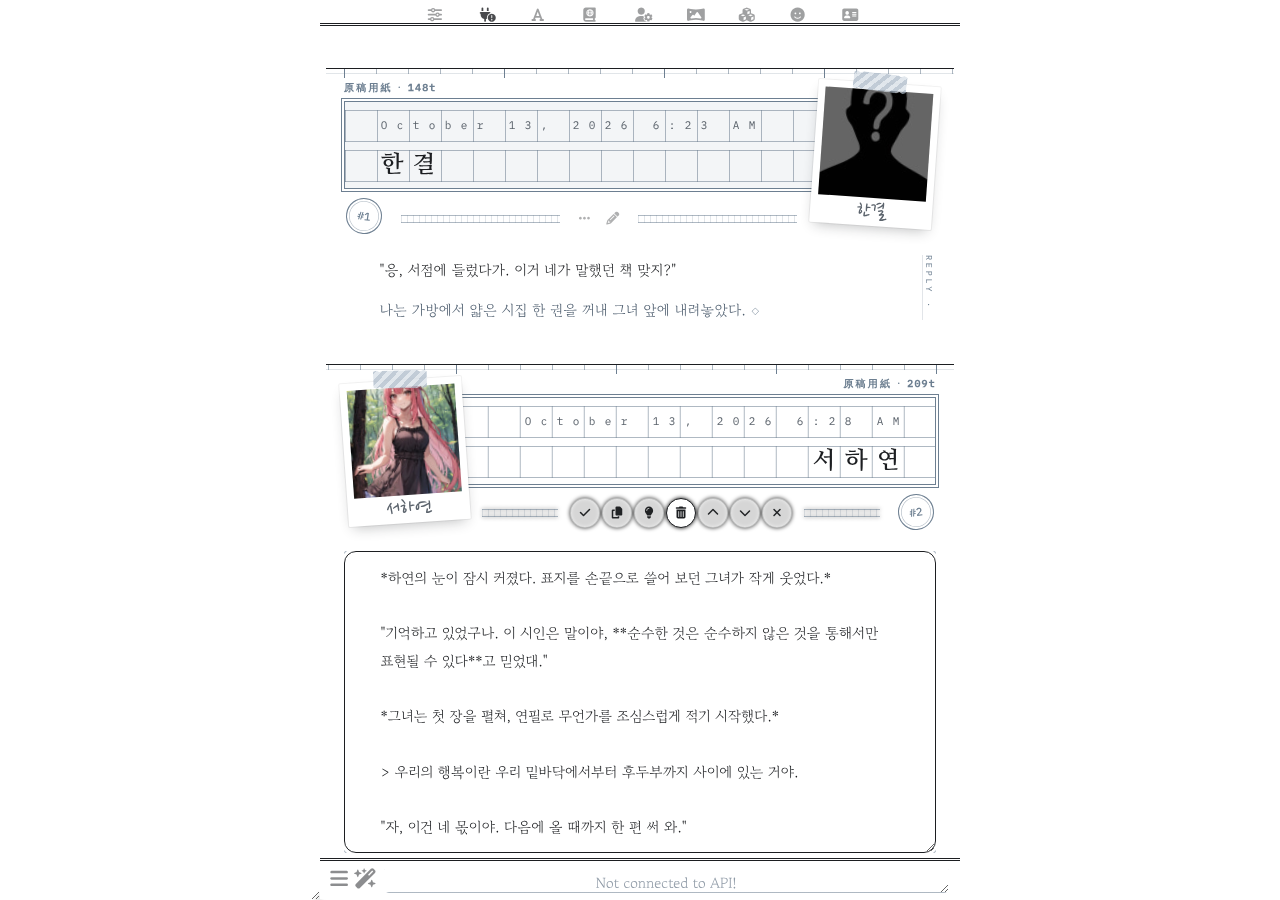
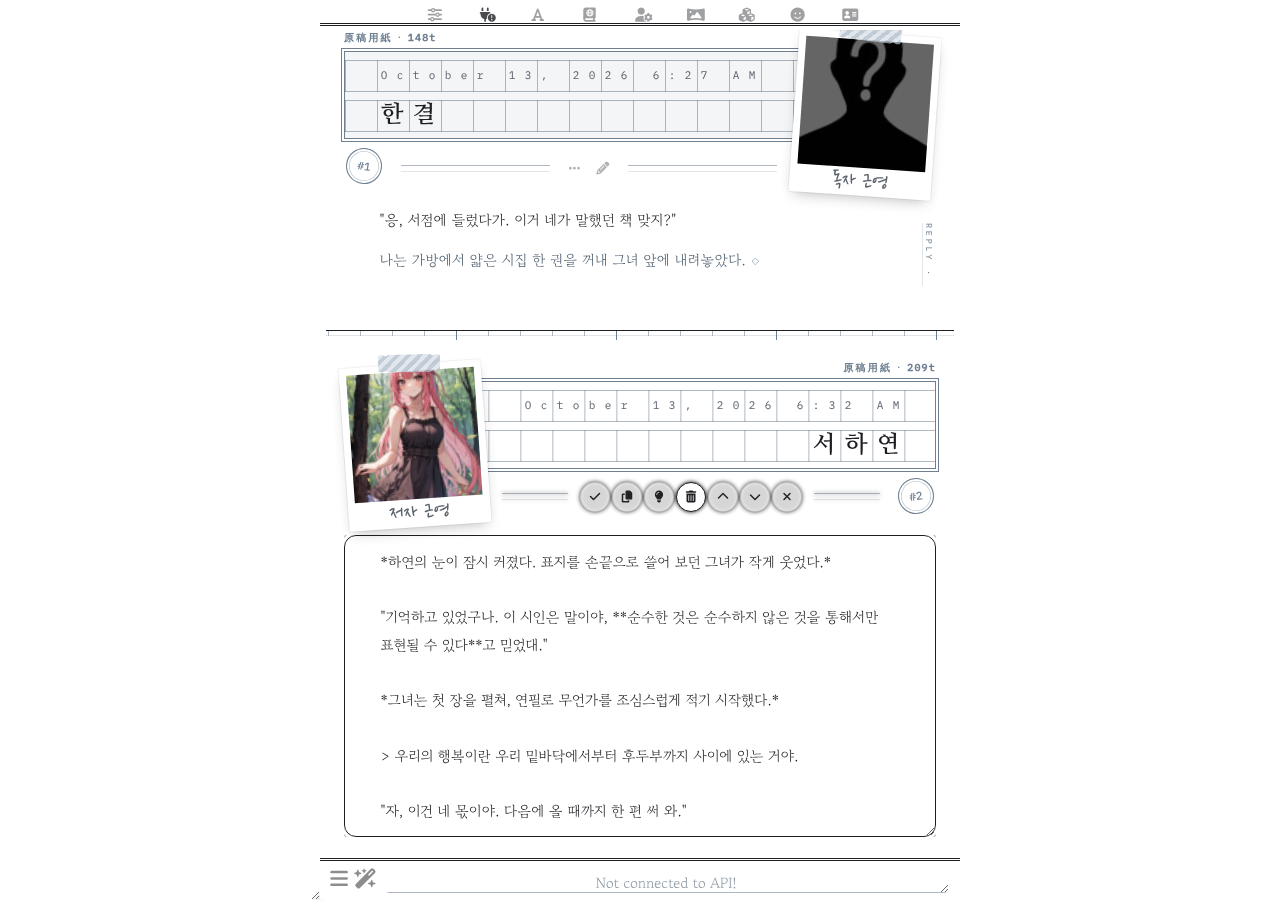
Wongoji: roomier separator, double-rule button row, literary captions
- More space above and below the ruler separator
- Button row lines back to the double hairline
- Polaroid caption reads '저자 근영' / '독자 근영' instead of the name
- Larger polaroid photos

Claude-Session: https://claude.ai/code/session_01VxNZVdN99GR1yFwUVAN4mT

diff --git a/src/wongoji.css b/src/wongoji.css
@@ -30,6 +30,10 @@
     /* 폴라로이드 사진 필터. 흑백으로 보고 싶다면 grayscale(1) */
     --wg-photo-filter: none;
 
+    /* 폴라로이드 아래 손글씨 — 책날개의 '저자 근영(近影)'처럼 */
+    --wg-caption-char: '저자 근영';
+    --wg-caption-user: '독자 근영';
+
     /* 띠 위 여백에 인쇄된 이름 (토큰 수가 뒤에 붙습니다) */
     --wg-paper-label: '原稿用紙';
 
@@ -53,9 +57,9 @@
     --wg-cell: 32px;              /* 칸 */
     --wg-gap: 8px;                /* 줄 사이 틈 */
     --wg-name-size: 24px;         /* 이름 글자 (칸보다 작게) */
-    --wg-pad: 32px;               /* 구분선과 띠 사이 */
+    --wg-pad: 50px;               /* 구분선과 띠 사이 */
     --wg-side: 18px;
-    --wg-photo: 108px;
+    --wg-photo: 128px;
     --wg-stamp-size: 36px;               /* 번호 도장 지름 */
     --wg-frame: 7px;
     --wg-chin: 28px;
@@ -78,9 +82,9 @@
         --wg-ts-per: 3;
         --wg-gap: 6px;
         --wg-name-size: 19px;
-        --wg-pad: 28px;
+        --wg-pad: 42px;
         --wg-side: 10px;
-        --wg-photo: 82px;
+        --wg-photo: 100px;
         --wg-stamp-size: 31px;
         --wg-frame: 5px;
         --wg-chin: 22px;
@@ -187,7 +191,7 @@ body {
 
     display: block;
     position: relative;
-    padding: calc(var(--wg-pad) + var(--wg-band-h) + 12px) var(--wg-side) 40px;
+    padding: calc(var(--wg-pad) + var(--wg-band-h) + 12px) var(--wg-side) 56px;
     margin: 0;
     /* 구분선 — 원고지 낱장의 머리처럼, 칸마다 눈금을 새긴 자 */
     border-top: 1px solid var(--wg-ink);
@@ -242,9 +246,9 @@ body {
     z-index: 0;
 }
 
-/* 폴라로이드 아래 손글씨 이름 — 아바타와 같은 상자를 같은 각도로 */
+/* 폴라로이드 아래 손글씨 — 아바타와 같은 상자를 같은 각도로 */
 #chat .mes::after {
-    content: attr(ch_name);
+    content: var(--wg-caption-char);
     position: absolute;
     top: var(--wg-pol-top);
     left: var(--wg-side);
@@ -519,12 +523,10 @@ body.no-tokenCount #chat .mes .ch_name::after {
     content: '';
     flex: 1 1 0;
     min-width: 12px;
-    height: 6px;
+    height: 5px;
     margin: 0 10px;
-    /* 아주 작은 원고지 한 줄 */
     border-top: 1px solid var(--wg-print-line);
-    border-bottom: 1px solid var(--wg-print-line);
-    background: linear-gradient(to right, var(--wg-print-faint) 1px, transparent 1px) 0 0 / 6px 100%;
+    border-bottom: 1px solid var(--wg-print-faint);
 }
 
 #chat .mes .mes_button,
@@ -837,7 +839,7 @@ body.no-tokenCount #chat .mes .ch_name::after {
 #chat .mes .mes_block::after {
     content: var(--wg-spine-char);
     position: absolute;
-    top: calc(var(--wg-pad) + var(--wg-band-h) + 66px);
+    top: calc(var(--wg-pad) + var(--wg-band-h) + 84px);
     bottom: 44px;
     left: var(--wg-side);
     width: 14px;
@@ -889,6 +891,10 @@ body.no-tokenCount #chat .mes .ch_name::after {
     left: var(--wg-band-far);
     right: var(--wg-band-near);
     background-position: 0 0, 0 0, left 0 top 0;
+}
+
+#chat .mes[is_user="true"]::after {
+    content: var(--wg-caption-user);
 }
 
 #chat .mes[is_user="true"]::after,

diff --git a/README.md b/README.md
@@ -14,8 +14,8 @@ SillyTavern UI 테마입니다. 흰 바탕과 먹, 청회색으로 인쇄된 원
   - 둘째 줄: 이름을 한 칸에 한 글자씩. 모두 끝 한 칸을 비우고 적습니다.
   - 띠 위 여백에는 `原稿用紙 · 412t`처럼 메시지의 토큰 수가 인쇄됩니다. 토큰 수 표시(Message Token Count)를 끄면 `原稿用紙`만 남습니다.
   - 띠 끝 아래에는 채팅 번호가 원형 도장으로 찍힙니다.
-- **폴라로이드**: 아바타는 컬러 폴라로이드로 띠 위에 비스듬히 겹쳐 놓이고, 줄무늬 마스킹 테이프와 손글씨 이름이 붙습니다.
-- **버튼 줄**: 띠와 본문 사이에 메시지 버튼을 두고, 그 양옆에 아주 작은 원고지 한 줄을 그었습니다.
+- **폴라로이드**: 아바타는 컬러 폴라로이드로 띠 위에 비스듬히 겹쳐 놓이고, 줄무늬 마스킹 테이프가 붙습니다. 아래 여백에는 책날개의 사진 설명처럼 `저자 근영`(캐릭터), `독자 근영`(유저)이 손글씨로 적힙니다.
+- **버튼 줄**: 띠와 본문 사이에 메시지 버튼을 두고, 그 양옆에 가는 이중 괘선을 그었습니다.
 - **본문**: 가독성을 위해 틀과 칸 배경 없이 종이 위에 바로 씁니다. 넓은 화면에서는 본문 옆에 책등처럼 세로 표기(`MANUSCRIPT · 原稿`, `REPLY · 答書`)가 붙고, 글 끝에는 마침 기호 `◇`가 찍힙니다.
 - **문장 표현**: 대사와 본문은 먹색, 지문과 속마음은 청회색입니다. 인용(`>`)은 책 뒤표지의 제사(題辭)처럼 큰 따옴표가 달린 가운데 정렬 청회색 상자로, 장면 전환(`---`)은 `＊`로 보입니다.
 - **색**: 화면 요소는 흑백과 청회색만 씁니다(아바타 사진은 원래 색 그대로). 유저 원고지는 아주 옅은 청회색이고, 그림자와 블러는 없습니다.
@@ -41,6 +41,7 @@ SillyTavern UI 테마입니다. 흰 바탕과 먹, 청회색으로 인쇄된 원
 | `--wg-print`, `--wg-print-line` | 원고지 인쇄색(청회색) |
 | `--wg-quote`, `--wg-em` | 대사와 지문 색 |
 | `--wg-photo-filter` | 폴라로이드 필터. `grayscale(1)`로 두면 흑백 사진이 됩니다 |
+| `--wg-caption-char`, `--wg-caption-user` | 폴라로이드 아래 손글씨 |
 | `--wg-paper-label` | 띠 위 여백에 인쇄되는 이름 (기본 `原稿用紙`) |
 | `--wg-stamp-size` | 번호 도장 지름 |
 | `--wg-ts-per` | 날짜를 한 칸에 몇 자씩 적을지 |
